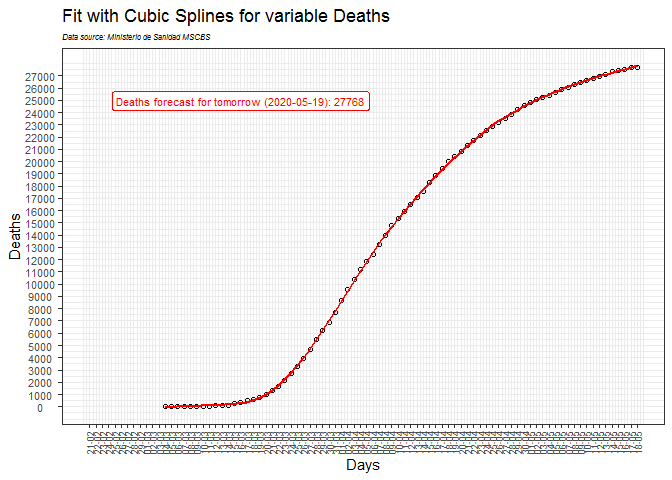
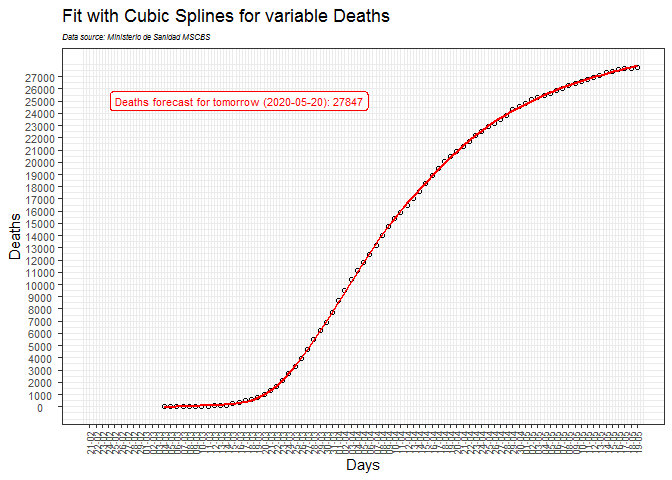
upgrade

diff --git a/README.md b/README.md
@@ -1,7 +1,7 @@
 Covid-19: The case of Spain
 ================
 JMSS \[Usal - CIC\]
-(updated: 18 may 2020)
+(updated: 19 may 2020)
 
 # Models for the COVID-19 pandemic in Spain
 
@@ -40,9 +40,9 @@ It is based on interpolation with cubic splines. See
 
 ![](README_files/figure-gfm/splinesD-1.png)<!-- -->
 
-##### Infecteds forecast for tomorrow (2020-05-19): 278686
+##### Infecteds forecast for tomorrow (2020-05-20): 279236
 
-##### Deaths forecast for tomorrow (2020-05-19): 27768
+##### Deaths forecast for tomorrow (2020-05-20): 27847
 
 Previous predictions:
 
@@ -91,6 +91,7 @@ Previous predictions:
     16-05 -> predicted = 275994; observed = 276550; error = -0.20%
     17-05 -> predicted = 278643; observed = 277690; error =  0.34%
     18-05 -> predicted = 278712; observed = 278188; error =  0.19%
+    19-05 -> predicted = 278686; observed = 278712; error = -0.01%
 
     Deaths forecast:
 
@@ -137,6 +138,7 @@ Previous predictions:
     16-05 -> predicted = 27597; observed = 27563; error =  0.12%
     17-05 -> predicted = 27667; observed = 27650; error =  0.06%
     18-05 -> predicted = 27737; observed = 27709; error =  0.10%
+    19-05 -> predicted = 27768; observed = 27778; error = -0.04%
 
 -----
 
@@ -156,9 +158,9 @@ the model will decrease.
 
 ![](README_files/figure-gfm/regresion-1.png)<!-- -->
 
-##### Infected forecast for tomorrow (2020-05-19): 275159, with 95% prediction interval: (259184 , 291134)
+##### Infected forecast for tomorrow (2020-05-20): 276607, with 95% prediction interval: (260737 , 292477)
 
-##### Deaths forecast for tomorrow (2020-05-19): 27804, with 95% prediction interval: (26769 , 28839)
+##### Deaths forecast for tomorrow (2020-05-20): 27940, with 95% prediction interval: (26915 , 28966)
 
 Previous predictions:
 
@@ -220,6 +222,7 @@ Previous predictions:
     16-05 -> predicted = 269669; observed = 276550; error =  -2.6%
     17-05 -> predicted = 271825; observed = 277690; error =  -2.2%
     18-05 -> predicted = 273516; observed = 278188; error =  -1.7%
+    19-05 -> predicted = 275159; observed = 278712; error =  -1.3%
 
     Deaths forecast:
 
@@ -279,6 +282,7 @@ Previous predictions:
     16-05 -> predicted = 27284; observed = 27563; error = -1.0%
     17-05 -> predicted = 27478; observed = 27650; error = -0.6%
     18-05 -> predicted = 27653; observed = 27709; error = -0.2%
+    19-05 -> predicted = 27804; observed = 27778; error =  0.1%
 
 -----
 
@@ -300,13 +304,13 @@ Estimates with the SIR model:
 ![](README_files/figure-gfm/SIR%20plots-1.png)<!-- -->
 
 According to this model, the rate of infection is 1.17, the height of
-the pandemic will be reached by 23/05/2020.
+the pandemic will be reached by 24/05/2020.
 
-About 533336 people would be infected by then, which translates to about
-256001 hospitalized cases, about 32000 cases in need of intensive care
-(UCI) and up to 24000 deaths.
+About 524941 people would be infected by then, which translates to about
+251972 hospitalized cases, about 31496 cases in need of intensive care
+(UCI) and up to 23622 deaths.
 
-#### Infected forecast for tomorrow: 441080 (2020-05-19)
+#### Infected forecast for tomorrow: 444740 (2020-05-20)
 
 Previous predictions:
 
@@ -369,6 +373,7 @@ Previous predictions:
     16-05 -> predicted = 428397; observed = 276550; error =  35.4%
     17-05 -> predicted = 432898; observed = 277690; error =  35.9%
     18-05 -> predicted = 437133; observed = 278188; error =  36.4%
+    19-05 -> predicted = 441080; observed = 278712; error =  36.8%
 
 -----
 
